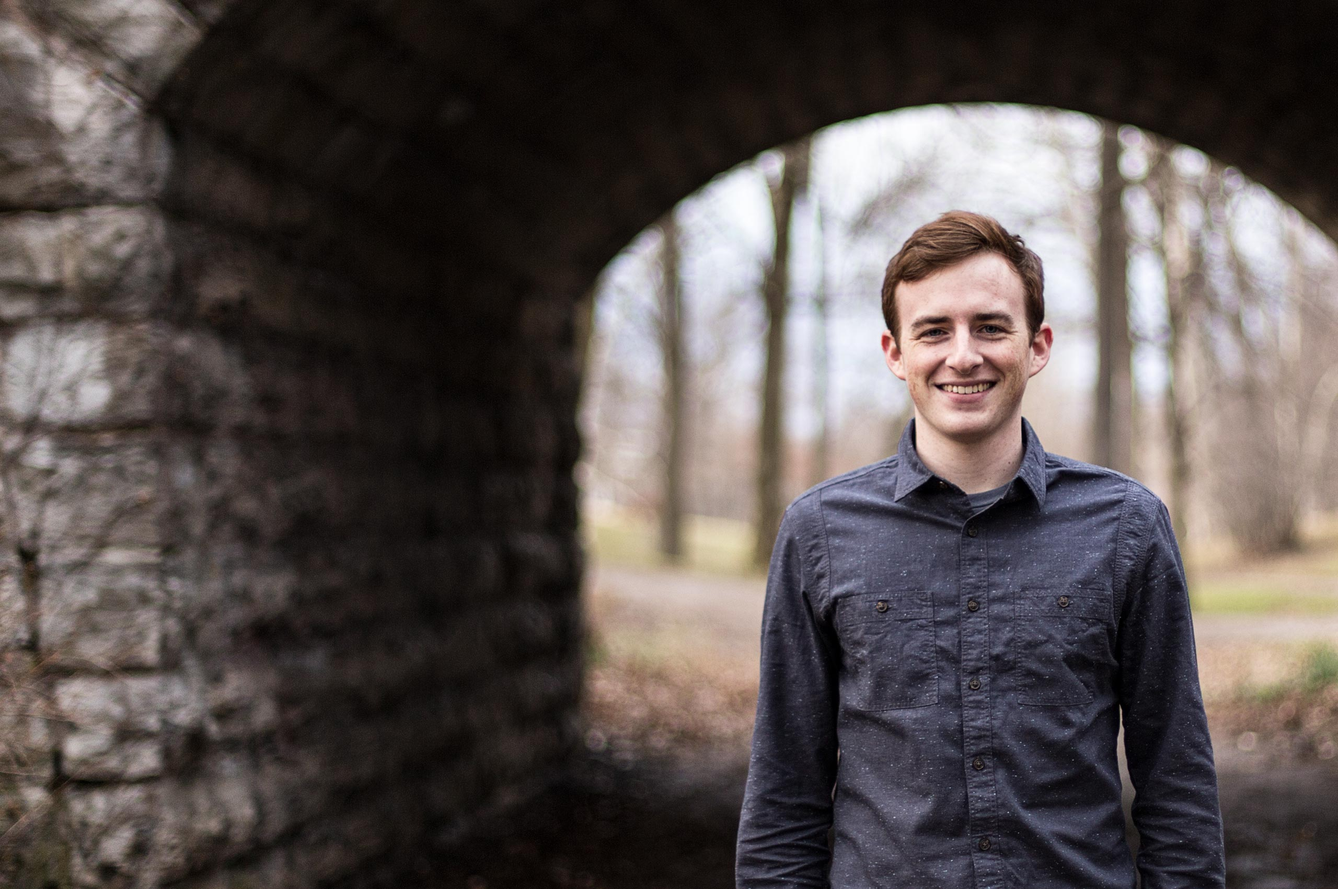
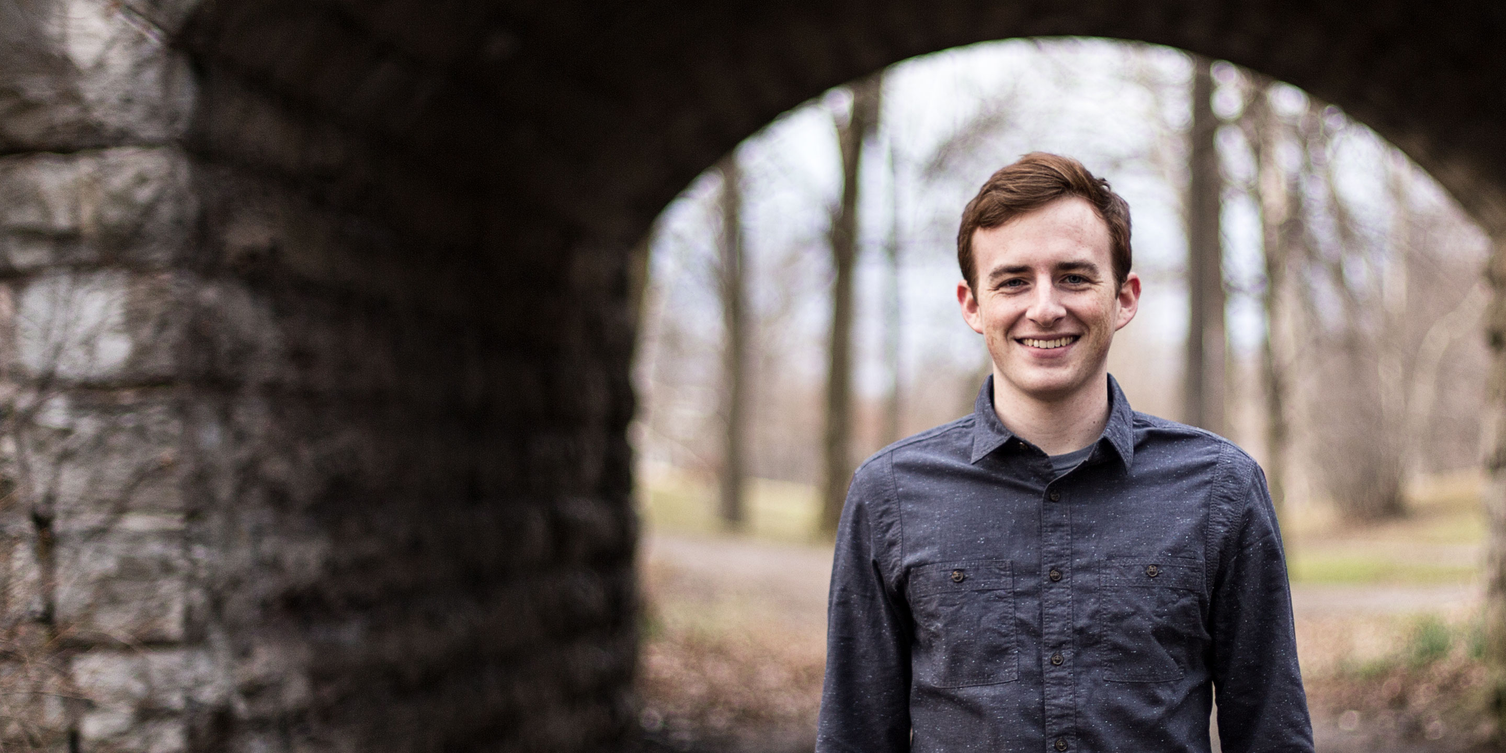
responsive tuning

diff --git a/css/main.css b/css/main.css
@@ -38,11 +38,11 @@ h1, h2, h3 {
 }
 
 h1 {
-	font-size: 3.4em;
+	font-size: 4em;
 }
 
 h2 {
-	font-size: 2.1em;
+	font-size: 2em;
 	text-transform: uppercase;
 	line-height: 1.6;
 }
@@ -146,16 +146,14 @@ ul {
 \* --------------------------------------------------- */
 #hero {
 	width: 100%;
-	height: 105vh;
+	height: 100vh;
 	position: fixed;
 	background-image: url(../images/hero-side.jpg);
 	background-repeat: no-repeat;
-	background-position: center bottom;
+	background-position: center;
 	background-size: cover;
 	will-change: transform;
 	top: 0;
-
-	transition: all 0.5s ease;
 }
 
 
@@ -170,22 +168,39 @@ header {
 	height: 100vh;
 	width: 100%;
 	text-align: center;
-
-	transition: all 0.5s ease;
 }
 
 #catch {
 	position: absolute;
 	color: #fff;
 	bottom: 50%;
-	left: 30%;
+	left: 27%;
 	transform: translate(-50%, 50%);
 	padding-right: 1em;
 	padding-left: 1em;
 	text-align: left;
+	max-width: 35em;
+	width: 100%;
 }
 
-#catch h1 {
+#catch:after {
+	content: '';
+	display: block;
+	position: absolute;
+	width: 100%;
+	height: 100%;
+	top: 40%;
+	left: 50%;
+	padding: 8em 2em;
+	z-index: -1;
+	transform: translate(-50%, -50%) skewY(-16.8deg);
+	border-color: #fff;
+	border-style: solid;
+	border-width: 0.5em 0 0.5em 0;
+}
+
+#catch h1,
+#catch h2 {
 	text-shadow: 0 0 0.3em rgba(0,0,0,0.2);
 }
 
@@ -224,7 +239,7 @@ main::before {
 	display: block;
 	background: url(../images/nat-triangle.svg) no-repeat;
 	width: 100%;
-	max-width: 64em;
+	max-width: 60em;
 	height: 9.7em;
 	left: 50%;
 	position: absolute;
@@ -269,6 +284,10 @@ main::before {
 	top: 50%;
 	left: 50%;
 	transform: translate(-50%, -50%);
+}
+
+.social-title h3 {
+	text-shadow: 0 0 0.3em rgba(0,0,0,0.2);
 }
 
 .social-title img {
@@ -442,6 +461,7 @@ main::before {
 
 .desktop {
 	width: 100%;
+	max-width: 60em;
 	position: absolute;
 	top: 0;
 	transition: all 1s ease 200ms;
@@ -450,6 +470,7 @@ main::before {
 }
 
 .tablet {
+	max-width: 24em;
 	width: 40%;
 	position: absolute;
 	right: 4em;
@@ -460,6 +481,7 @@ main::before {
 }
 
 .mobile {
+	max-width: 10em;
 	width: 16.66%;
 	position: absolute;
 	bottom: -2em;
@@ -605,10 +627,6 @@ footer a img {
 \* --------------------------------------------------- */
 
 @media all and (max-width: 90em) {
-	#catch {
-		bottom: 32%;
-	}
-
 	main::before {
 		max-width: 45em;
 	}
@@ -619,9 +637,16 @@ footer a img {
 		font-size: 2.6em;
 	}
 
+	#hero {
+		background-image: url(../images/hero-center.jpg);
+	}
+
 	#catch {
-		bottom: 32%;
-		width: 80%;
+		left: 50%;
+	}
+
+	#catch::after {
+		content: normal;
 	}
 
 	#projects {
@@ -684,6 +709,10 @@ footer a img {
 		padding: 25vw 0 2em;
 	}
 
+	.project-block h1 {
+		font-size: 4em;
+	}
+
 	.mobile {
 		left: 32%;
 	}
@@ -731,6 +760,10 @@ footer a img {
 
 	#everyday {
 		padding: 4em 0 2em;
+	}
+
+	.project-block h1 {
+		font-size: 2em;
 	}
 
 	.project-block + .project-block {

diff --git a/pages/home.html b/pages/home.html
@@ -1,7 +1,7 @@
 <svg id="defs" width="0" height="0">
 	<defs>
 		<clipPath id="full-hex-large">
-			<polygon points="1024 465.156 512 620.208 0 465.156 0 155.052 512 0 1024 155.052">
+			<polygon points="1024 464 512 620 0 464 0 155 512 0 1024 155">
 		</clipPath>
 		<clipPath id="full-hex">
 			<polygon points="774 351.592 387 468.79 0 351.592 0 117.197 387 0 774 117.197"/>
@@ -16,12 +16,9 @@
 
 <header>
 	<article id="catch">
-		<h1>I&rsquo;m Sam Morrison</h1>
-		<h2>
-			and I am a front-end developer<br> 
-			who wants to make the web a more<br> 
-			delightful place.
-		</h2>
+		<h2>My name is</h2>
+		<h1>Sam Morrison</h1>
+		<h2>and I am a front-end developer who wants to make the web a more delightful place.</h2>
 	</article>
 </header>
 <main ng-controller="ProjectCtrl as p">
@@ -41,7 +38,7 @@
 					<h2>Code</h2>
 				</div>
 				<svg width="100%" height="100%" viewBox="0 0 387 468">
-					<image style="clip-path:url(#half-hex)" xlink:href="images/desert-pillars.jpg" x="0" y="-7%" width="512" height="512"></image>
+					<image style="clip-path:url(#half-hex)" width="100%" height="100%" xlink:href="images/desert-pillars.jpg"></image>
 				</svg>
 			</a>
 			<a class="half-hex-block" href="//www.instagram.com/sailormansam/" target="_blank">
@@ -50,7 +47,7 @@
 					<h2>Art</h2>
 				</div>
 				<svg width="100%" height="100%" viewBox="0 0 387 468">
-					<image style="clip-path:url(#half-hex)" x="0" y="0" width="512" height="512" xlink:href="images/object-practice.jpg"></image>
+					<image style="clip-path:url(#half-hex)" x="0" y="0" width="100%" height="100%" xlink:href="images/object-practice.jpg"></image>
 				</svg>
 			</a>
 		</article>
